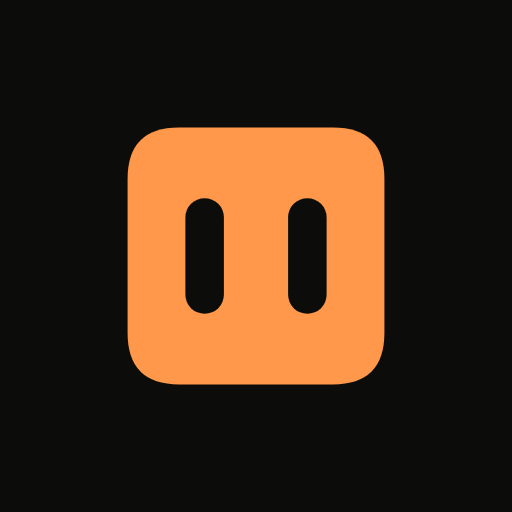
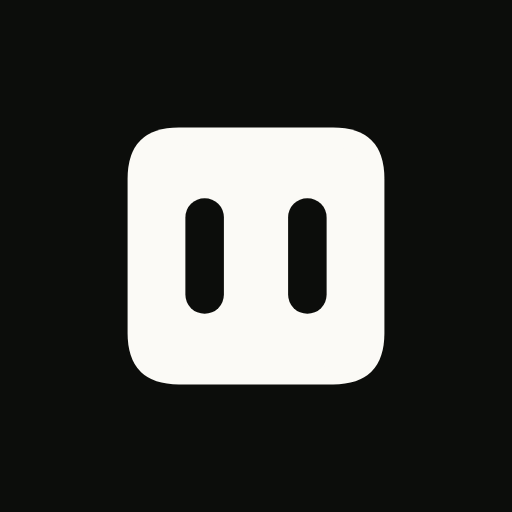
.402 the mark matches the sheet it was drawn for, colour and size
The drawing was already right and I should have proved that before restoring it
a second time. Re-running the exact capture harness that produced the colour
sheet against the app as it stands, and diffing the two images: 0 differing
pixels out of 5,084,160. Silhouette, corner radius, the 86% core, the three face
polygons, the eye capsules — identical.

So the difference was never the drawing. It was the two things I had kept that
the sheet cannot show, and both are gone now:

- COLOUR. --mark-shell goes back to the page's cream, #fbfaf6, with the band's
  black knocked out for the eyes. 18.65:1 either way, since the band and the
  eyes are the same black. The orange from .400 is one token.
- SIZE. --mc-scale on the wordmark's mark goes 0.85 -> 1, so the solid is the
  full 40 its box has always been. That was .356, and it is the one thing about
  the mark that never lived in the drawing: same shape, same colours, 15%
  smaller.

The chip beside the score moves with it, because "the same mark at the same
size" is the point of .389: its --mc-scale goes 1.545 -> 1.818, which is 40/22
rather than 34/22. DOCK_DRAW goes 41 -> 43, which is round(40 * 1.08), because
what is reserved has to be what is drawn — the block is the drawing's width and
the centring puts the 22-wide box 10.5 into it, which is where the drawing's
left edge needs to be.

The header mount keeps reading --mark-shell/--mark-ink rather than --bg and
[…]

Changed region(s): [[0.25, 0.25, 0.75, 0.75]]

diff --git a/index.html b/index.html
@@ -26,8 +26,8 @@
 <!-- The mark itself: a full-bleed lime field with the two eyes on it. Full bleed
      because iOS rounds the corners of a home-screen icon for you, and rounding them
      here as well would inset the plate inside its own rounding. -->
[4 lines of base64/hex data omitted]
 <!-- THE FONT DOES NOT HOLD THE PAGE UP ANY MORE.
      It was pulled by @import from inside the stylesheet, which is the slowest way there is
      to load one: discovered only after the CSS has parsed, render-blocking once it is, and
@@ -178,22 +178,18 @@
     /* THE MARK'S OWN TWO. It is one flat colour and a pair of capsules knocked out of it, so
        that is exactly two values and there is no third: nothing is shaded, nothing is mixed.
 
-       ORANGE. The mark took the page's own cream for as long as it was a shape rather than a
-       thing — a cream solid on the dark header band is legible at 18.65:1 and says nothing
-       else. A logo should be findable by its COLOUR before its shape, and cream is the colour
-       of the wordmark it sits beside, so the mark read as part of the lettering. Orange is the
-       one hue in the set that is neither a tab's band nor a state — lime is insights, yellow
-       training, red injuries, purple data, blue settings — so the mark can wear it without
-       ever reading as the section you happen to be on. It measures 9.13:1 on the band.
-
-       The eyes take the band's own black, so the same 9.13:1 that finds the mark on the band
-       is what finds the eyes inside it — one measured pair doing both jobs.
+       CREAM, which is what the mark is: the page's own #fbfaf6 body with the band's black
+       knocked out of it for the eyes. 18.65:1 against the header band, and 18.65:1 for the
+       eyes inside the body, because the band and the eyes are the same black — one measured
+       pair doing both jobs. Orange was tried and is one token away; the argument for it was
+       that a logo should be findable by its colour before its shape, and the argument against
+       is that this mark is findable by its shape, which changes as it turns.
 
        The header band is a dark pocket on BOTH grounds, so one pair covers both themes rather
        than needing a bone variant — which is also why these are literals rather than var()s
        off the theme. They are what the flying pair wears in transit and what the icon is
        built from, so the mark is the same two colours everywhere it appears. */
-    --mark-shell:#ff984a;
+    --mark-shell:#fbfaf6;
     --mark-ink:#0c0d0b;
     /* Sand. The same value --face-3 carries as a rating, named separately because this is not
        one: a token used for its hue has no business reading as "ok" wherever it turns up. If
@@ -715,12 +711,14 @@
   .eyes.no-morph, .eyes.no-morph span, .eyes.no-morph .eye-gaze, .eyes.no-morph .eye-motion{ transition:none; transition-delay:0ms; }
   /* Absolutely positioned and transform-origin'd at its top left because the header
      collapse drives left/top/scale on it as you scroll — see updateHeaderCollapse. */
-  /* --mc-scale shrinks the solid inside a box that does not move. The box stays 40 because
-     two other things measure it: the collapse takes the mark's left from it, and a finger
-     has to hit it — 40 is already under the 44 a tap target wants, and taking the drawing's
-     size out of the box would have taken the tap target with it. */
+  /* --mc-scale multiplies the DRAWING inside a box that does not move. The box stays 40
+     because two other things measure it: the collapse takes the mark's left from it, and a
+     finger has to hit it — 40 is already under the 44 a tap target wants, and taking the
+     drawing's size out of the box would have taken the tap target with it.
+     At 1 the solid is the full 40. It was 0.85 for a while, which is the one thing about the
+     mark that was not in the drawing itself — same shape, same colours, 15% smaller. */
   .header-brand .header-mark{ position:absolute; left:117px; top:57px; z-index:1; transform-origin:left top; cursor:pointer;
-    --mc-scale:0.85;
+    --mc-scale:1;
     --eye-box-w:40px; --eye-box-h:40px; --eye-gap:10px; --eye-plate:var(--mark-shell); --eye-plate-r:12px;
     --eye-w:6px; --eye-h:18px; --eye-r:3px; --eye-rb:3px; --eye-ink:var(--mark-ink); }
   /* Above the score, centred on the number rather than on the number-and-ring pair.
@@ -1988,10 +1986,10 @@
      positions by; this is what actually gets drawn, and the two have to agree. */
   /* The DRAWING is the wordmark's size; the BOX stays 22. --mc-scale multiplies what gets
      painted and nothing else, so DOCK_W/DOCK_H still describe what dockPlan reserves, what
-     the placement anchors to the numeral's right edge, and what a finger has to hit. 1.545
-     is 34/22 — the same 34 the wordmark draws at, which is what makes the two the same mark
-     at the same size rather than two sizes of one drawing. */
-  #todayFaceDock{ --mc-scale:1.545;
+     the placement anchors to the numeral's right edge, and what a finger has to hit. 1.818
+     is 40/22 — the same 40 the wordmark draws at, which is what makes the two the same mark
+     at the same size rather than two sizes of one drawing. It moves whenever that does. */
+  #todayFaceDock{ --mc-scale:1.818;
     position:absolute; display:none; width:22px; height:22px; padding:0;
     border:0; border-radius:0; background:var(--face-c); color:#000000; cursor:pointer;
     align-items:center; justify-content:center; z-index:1; flex:none;
@@ -6029,9 +6027,11 @@ function mcMounts(){
      once per mount per frame just to find out the mount is not on screen. */
   const header = document.querySelector('.header-mark');
   if(header && header.style.visibility !== 'hidden')
-    /* The mark's own two, not the page's. Taking --bg made it the same cream as the wordmark
-       beside it, so the mark read as part of the lettering rather than as a mark next to it.
-       The chip below still wears the day's answer; only this one is the logo. */
+    /* The mark's own two rather than --bg and --ground. They resolve to the same values in
+       this pocket, so nothing here changes colour — but EYE_SITES.header already dressed the
+       flying pair out of these tokens, so reading anything else meant the mark could be one
+       colour in its two homes and another in transit between them. One pair now, for both
+       mounts, the flight and the icon. */
     out.push({ host:header, id:'mcClipH',
                svg:document.getElementById('headerMarkCube'),
                shell:'var(--mark-shell)', ink:'var(--mark-ink)' });
@@ -8753,14 +8753,15 @@ const FACE_SCALE = 0.38;
 const DOCK_W = 22, DOCK_H = 22, DOCK_SCALE = FACE_SCALE * 0.85;
 /* WHAT IS RESERVED HAS TO BE WHAT IS DRAWN.
    The chip's BOX is still 22 — that is the tap target, and what the placement anchors to the
-   numeral's right edge. What is painted in it is the wordmark's sphere at 41, overhanging 9.5
-   each side. Reserve by the box and the mark sits twelve pixels over the last digit.
+   numeral's right edge. What is painted in it is the wordmark's solid, and the solid's SVG is
+   round(40 * 1.08) = 43 across, overhanging 10.5 each side. Reserve by the box and the mark
+   sits over the last digit by that overhang.
 
    So the BLOCK is the drawing's width, and the existing centring does the rest: the chip is
-   already laid in the middle of its block, so a 41-wide block puts the 22-wide box 9.5 in,
+   already laid in the middle of its block, so a 43-wide block puts the 22-wide box 10.5 in,
    which is exactly where the drawing's left edge needs to be. One constant, and the two
-   halves of the layout agree again. */
-const DOCK_DRAW = 41;
+   halves of the layout agree again — which means it has to move whenever --mc-scale does. */
+const DOCK_DRAW = 43;
 /* The mark's own geometry, in the shape faceEyesHtml wants, so the chip can be drawn AS the
    mark rather than as the face you picked. Same numbers as EYE_SITES.score.
 
